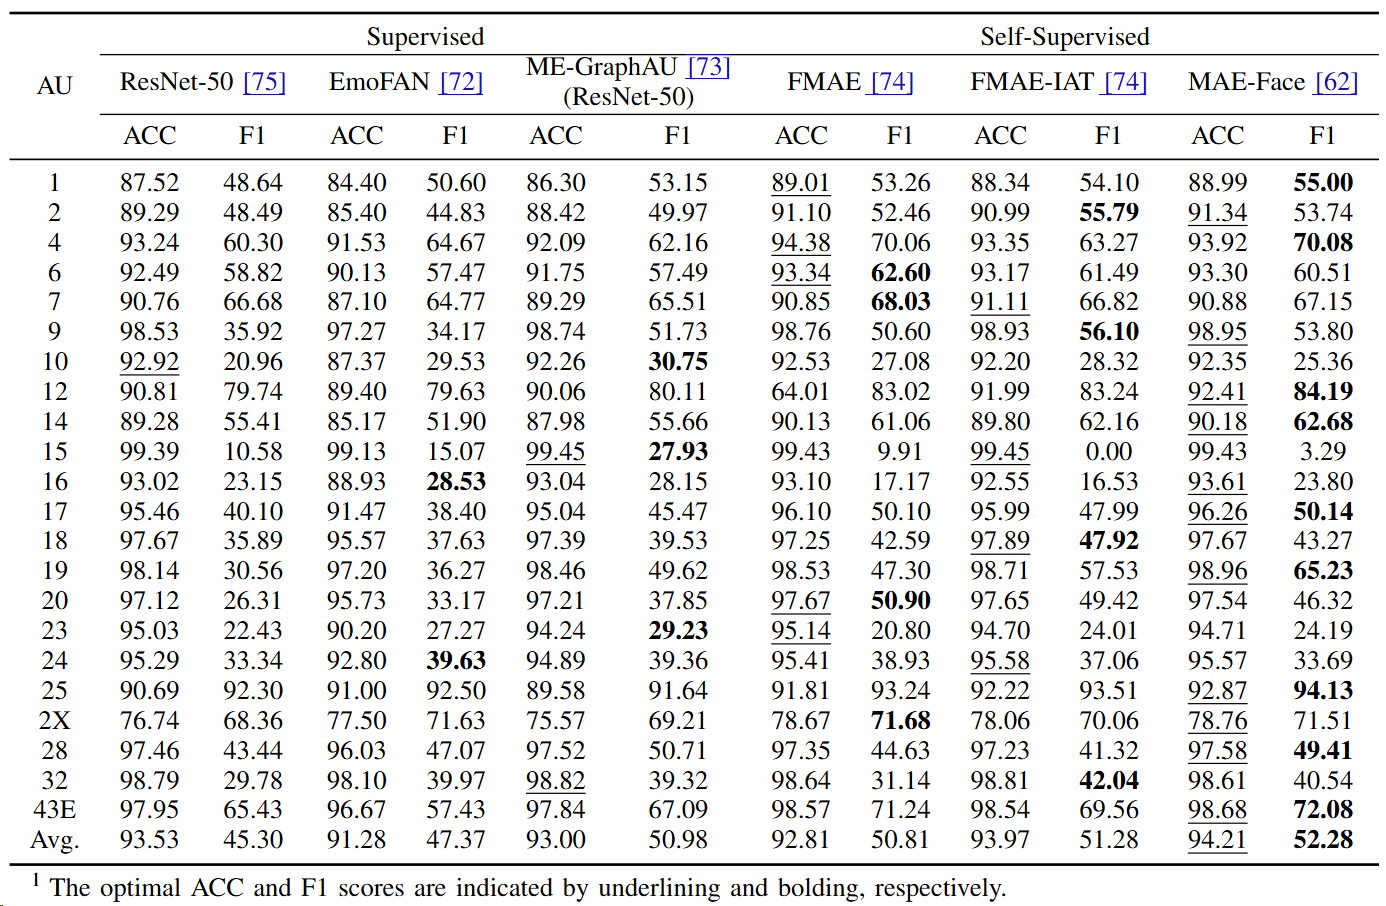
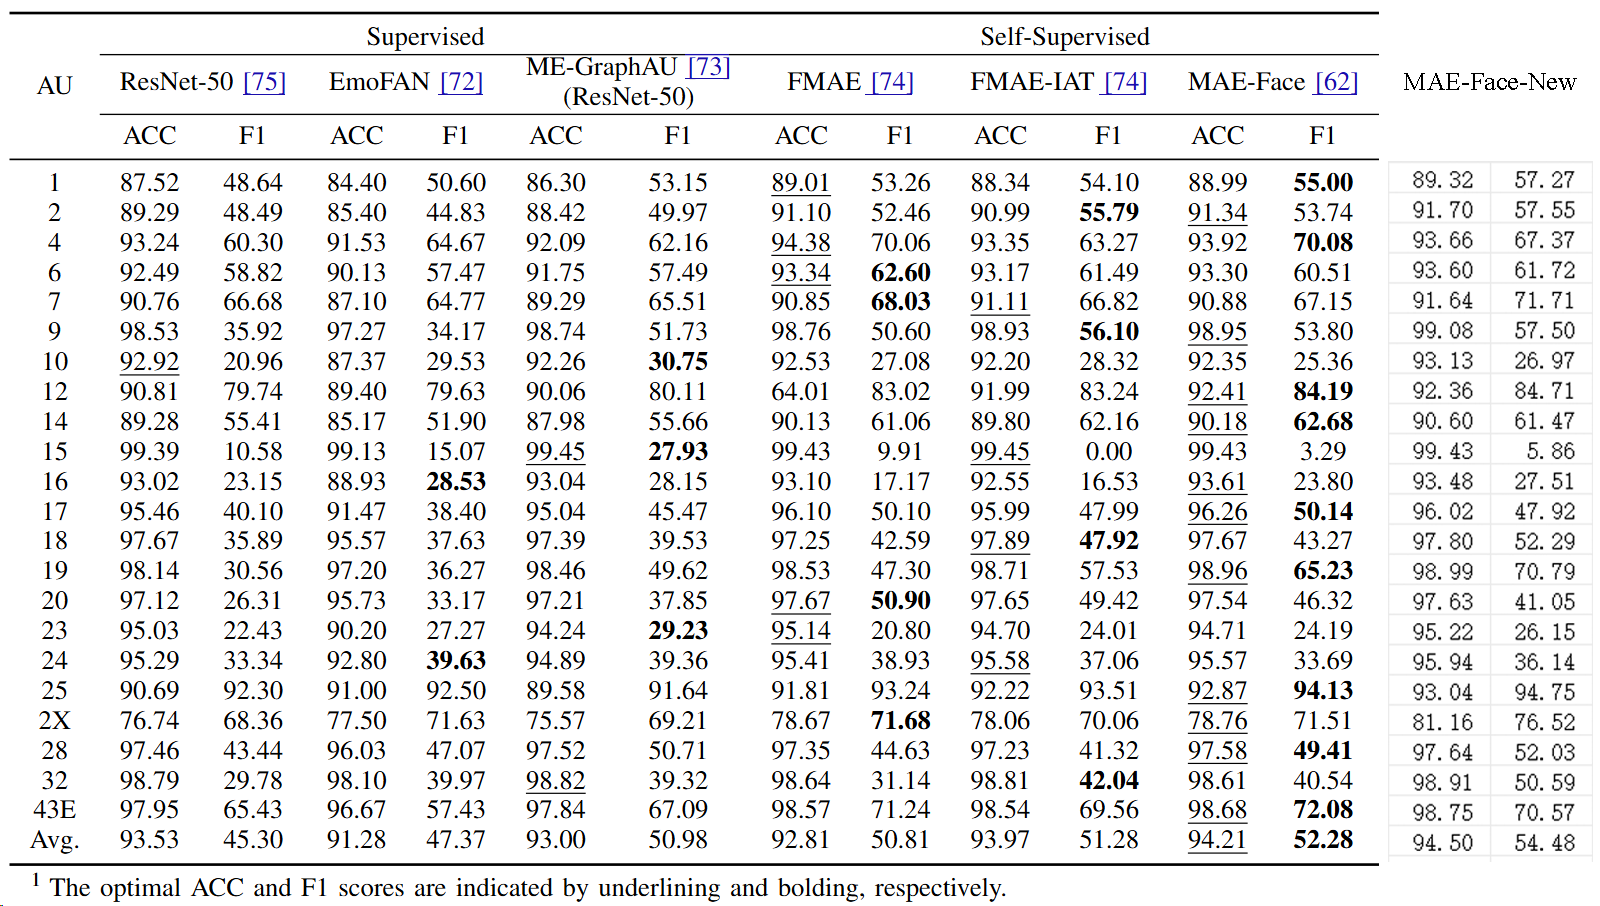
Update MAE-Face model weight.

Changed region(s): [[0.0, 0.0309, 0.9928, 1.0], [0.8687, 0.0, 0.9928, 0.0309]]

diff --git a/Predict/HRM_test_batch.py b/Predict/HRM_test_batch.py
@@ -175,7 +175,7 @@ if __name__ == '__main__':
     cudnn.benchmark = True
 
     algorithm = 'MAE-FACE' # select the algorithm you want to test:FMAE, FMAE-IAT, MAE-FACE, ME-Graph, EMOFAN | 选择算法
-    pretrained_weights = './ckpt/Tr23-t1-checkpoint-23.pth'
+    pretrained_weights = './ckpt/TR-1_3-checkpoint-8-F1=55.84.pth'
 
     batch_size = 8
     num_works = 4
@@ -209,7 +209,7 @@ if __name__ == '__main__':
         model = models_vit.__dict__[model_name](
             num_classes=22,
             drop_path_rate=0.1,
-            global_pool=False,
+            global_pool=True, # According to the recommendations of the MAE-FACE algorithm, the new version of the weights will no longer use the cls_token for AU prediction.
         )
         checkpoint = torch.load(pretrained_weights, map_location='cpu')
         checkpoint = checkpoint['model']

diff --git a/README.md b/README.md
@@ -5,43 +5,43 @@
     <div>
         <img src="./Pic/logo.png" width=26%>
     </div>
+
+Yanfeng Ji, Shutong Wang, Ruyi Xu, Jingying Chen, Yuxuan Quan, Xinzhou Jiang, Zhengyu Deng, Junpeng Liu
+<br>
+**Central China Normal University**
+<br>
+**Paper Link**: https://ieeexplore.ieee.org/abstract/document/10955738
 </div>
 
-## Abstract
-Children with Autism Spectrum Disorder (ASD)
-often exhibit atypical facial expressions. However, the specific
-objective facial features that underlie this subjective perception
-remain unclear. In this paper, we introduce a novel dataset,
-Hugging Rain Man (HRM), which includes facial action units
-(AUs) manually annotated by FACS experts for both children
-with ASD and typically developing (TD) children. The dataset
-comprises a rich collection of posed and spontaneous facial
-expressions, totaling approximately 130,000 frames, along with
-22 AUs, 10 Action Descriptors (ADs), and atypicality ratings.
-A statistical analysis of static images from the HRM reveals
-significant differences between the ASD and TD groups across
-multiple AUs and ADs when displaying the same emotional
-expressions, confirming that participants with ASD tend to
-demonstrate more irregular and diverse expression patterns.
-Subsequently, a temporal regression method was employed to analyze atypicality of dynamic sequences, thereby bridging the gap
-between subjective perception and objective facial characteristics.
-Furthermore, baseline results for AU detection are provided for
-future research reference. This work not only contributes to
-our understanding of the unique facial expression characteristics
-associated with ASD but also provides potential tools for ASD
-early screening.
 
-**Paper Link**: https://ieeexplore.ieee.org/abstract/document/10955738
-
-## Introduction
-
+## 💁Introduction
 This repository contains the annotated Action Unit (AU) and Action Descriptor (AD) labels for the HRM dataset, 
 along with pre-trained models for facial action detection and atypical expression regression. The dataset consists of 131,758 frames, 
 organized into 1,535 segments. The original images themselves are not publicly available due to privacy and 
 ethical considerations. However, the AU labels, machine-extracted features and pre-trained models are provided to facilitate 
 research and development in the field of children facial expression analysis, particularly for Autism Spectrum Disorder (ASD).
 
-## Dataset Description
+## 🚀Quick Start - Child AU Detection Demo (Windows)
+For users unfamiliar with environment setup, we offer a user-friendly integrated demo for **Windows** based on the MAE series models.
+
+**Download link:**  
+- [Baidu Cloud](https://pan.baidu.com/s/1xX6LreuEKcyknTUSF4hbNQ) pwd: CCNU 
+- [Google Drive](https://drive.google.com/file/d/1PWcDD-ET4bS2tT1dE8oFDG1E31pIMHVl/view?usp=sharing)
+
+1. **Prepare Data and Weights**  
+   1. Place the images for prediction in the `FMAE/imgs/` folder. For example 1.jpg, 2.jpg, 3.jpg, etc.  Please make sure that there is only one face in the image.
+   2. If you are not familiar with how to align faces, we recommend using OpenFace 2.2.0 for face alignment. The official download link is: https://github.com/TadasBaltrusaitis/OpenFace/releases/tag/OpenFace_2.2.0. After downloading, run OpenFaceOffline.exe, check 'Record aligned faces' under the 'Record' menu, and set the output image size to 224x224 under 'Recording settings'. Finally, select your video or image from the 'File' menu. The aligned faces will be saved in the OpenFace/processed directory (in the xxxx_aligned folder). Move the images from this folder to the `/FMAE/imgs/` directory.
+   3. Place the downloaded weight files in the `FMAE/ckpt/` folder.
+
+2. **Run the Demo**  
+   1. Double-click `run_MAEFACE.bat` to execute.  
+   2. The prediction results will be saved in the `FMAE/results/` folder.
+   3. We recommend using a GPU with at least 8GB of VRAM to speed up inference. The default parameters (batch_size=8, num_workers=4, model_weight, etc.) can be modified in `HRM_test_batch.py`
+
+3. **Demo User Guide**
+   1. Please refer to Guide.pptx
+
+## 📢Dataset Description
 **The publicly available data and models are exclusively for non-commercial research
 purposes, including but not limited to academic studies and scientific exploration. Any
 commercial use or use for profit-making activities is strictly prohibited. This work is licensed under CC BY-NC-SA 4.0.**
@@ -67,7 +67,6 @@ commercial use or use for profit-making activities is strictly prohibited. This 
 - **Machine-extracted Features**: InsightFace and OpenFace features (5 key points, head pose and bounding box, etc)
 
 
-
 ### Pre-trained Model Download Links
 - **Baidu Cloud (17/22AU Pre-trained Models, Machine-extracted Features and Labels)**: [Download Link](https://pan.baidu.com/s/1hMCuq4L892kl092uiDjrvw), pwd:CCNU
 - **Mega Cloud (22AU Pre-trained Models and Machine-extracted Features)**: [Download Link](https://mega.nz/folder/GVYRmbKa#5vfygvAm0mYl_h-6YbFzAQ
@@ -77,8 +76,9 @@ commercial use or use for profit-making activities is strictly prohibited. This 
 We provide a demo for single and batch AU prediction. Please refer to the [Predict](https://github.com/Jonas-DL/Hugging-Rain-Man/tree/main/Predict) folder.
 You are recommended to use **MAE series model weights** for predictions.
  
-- Clone the entire project from the GitHub repositories of various algorithms.
-- Install the required libraries, place the scripts in the project root directory, and download the corresponding weight files to run the tests.
+- Clone the entire project from the GitHub repositories of various algorithms, such as ME-Graph, MAE-FACE, etc.
+- Install the required libraries, place the scripts in the project root directory, and download the corresponding weight files to run the tests (**Inference Stage**).
+- You can also use the weights we provide to fine-tune on your own annotated AU datasets. For example, you can execute `main_finetune.py` in the [FMAE](https://github.com/forever208/FMAE-IAT) repository to achieve this.
 
 ⚠Differences in facial structure and cultural variations in emotional
 expression may lead to reduced performance when the model
@@ -88,36 +88,19 @@ model’s ability to generalize to individuals outside of this
 age range may also be compromised. Researchers using this
 dataset and model should be mindful of these factors, as the model
 may not fully generalize to broader, more diverse populations.
+ If you intend to use the model among non-East Asian populations, we recommend first annotating a small-scale AU dataset for the target population and then fine-tuning the model weights.
 
-### User-friendly Integrated Demo for AU Detection (Windows)
-For users unfamiliar with environment setup, we offer a user-friendly integrated demo for **Windows** based on the MAE series models.
 
-Download link:  
-- [Baidu Cloud](https://pan.baidu.com/s/1xX6LreuEKcyknTUSF4hbNQ) pwd: CCNU 
-- [Google Drive](https://drive.google.com/file/d/1wU22vKpG-ZY4Nw5wqCLPcD0ieNBaEXxN/view?usp=drive_link)
-
-1. **Prepare Data and Weights**  
-   1. Place the images for prediction in the `FMAE/imgs/` folder. For example 1.jpg, 2.jpg, 3.jpg, etc.  Please make sure that there is only one face in the image.
-   2. If you are not familiar with how to align faces, we recommend using OpenFace 2.2.0 for face alignment. The official download link is: https://github.com/TadasBaltrusaitis/OpenFace/releases/tag/OpenFace_2.2.0. After downloading, run OpenFaceOffline.exe, check 'Record aligned faces' under the 'Record' menu, and set the output image size to 224x224 under 'Recording settings'. Finally, select your video or image from the 'File' menu. The aligned faces will be saved in the OpenFace/processed directory (in the xxxx_aligned folder). Move the images from this folder to the `/FMAE/imgs/` directory.
-   3. Place the downloaded weight files in the `FMAE/ckpt/` folder.
-
-2. **Run the Demo**  
-   1. Double-click `run_MAEFACE.bat` to execute.  
-   2. The prediction results will be saved in the `FMAE/results/` folder.
-   3. We recommend using a GPU with at least 8GB of VRAM to speed up inference. The default parameters (batch_size=8, num_workers=4, model_weight, etc.) can be modified in HRM_test_batch.py
-
-3. **Demo User Guide**
-   1. Please refer to Guide.pptx
-
-## AU Detection Baseline
+## ✨AU Detection Baseline
 
 ### 22 AU
 <img src="./Pic/22au.png">
+Different from the MAE-FACE training configuration reported in ours paper, we retrained MAE-FACE using a new parameter setup (shown in the "MAE-FACE-new" column of the table). The new configuration is as follows: train_epochs=20, warmup_epochs=10, blr=5e-4, min_lr=1e-6, and global_pool=True.
 
 ### 17 AU
 <img src="./Pic/17au.png">
 
-## AU/AD Annotation Tool 
+## ⚙AU/AD Annotation Tool 
 We provide an additional AU annotation tool that you need to install the PySimpleGUI library in advance.
 <div align="center">
    <img src="./Pic/labeling tool.png" width=44%>
@@ -141,21 +124,20 @@ We provide an additional AU annotation tool that you need to install the PySimpl
 - **LRTB**: Enter the direction of the AU. For example, if AU2 is activated on the right side, enter 2 in the R input box.
 
 
-## Acknowledgment
+## 🙇Acknowledgment
 We would like to express our gratitude to the following excellent open-source projects: [JAA-Net](https://github.com/ZhiwenShao/PyTorch-JAANet),[EmoFAN](https://github.com/face-analysis/emonet), [EmoFAN4AU-Detection](https://github.com/jingyang2017/aunet_train), 
 [ME-GraphAU](https://github.com/CVI-SZU/ME-GraphAU), [MAE-Face](https://github.com/FuxiVirtualHuman/MAE-Face), 
 [FMAE](https://github.com/forever208/FMAE-IAT), [EAC](https://github.com/zyh-uaiaaaa/Erasing-Attention-Consistency), 
 [Poster++](https://github.com/talented-q/poster_v2), and [DDAMFN++](https://github.com/SainingZhang/DDAMFN).
-## Citation
-if the data or method help you in the research, please cite the following paper:
-```
+
+## 🧲Citation
+If you find our work useful for your research, please consider citing the paper :
+```bibtex
 @article{ji2025hugging,
   title={Hugging Rain Man: A Novel Facial Action Units Dataset for Analyzing Atypical Facial Expressions in Children with Autism Spectrum Disorder},
   author={Ji, Yanfeng and Wang, Shutong and Xu, Ruyi and Chen, Jingying and Quan, Yuxuan and Jiang, Xinzhou and Deng, Zhengyu and Liu, Junpeng},
   journal={IEEE Transactions on Affective Computing}, 
   year={2025},
-  volume={},
-  number={},
   pages={1-17},
   doi={10.1109/TAFFC.2025.3558914}}
 ```
